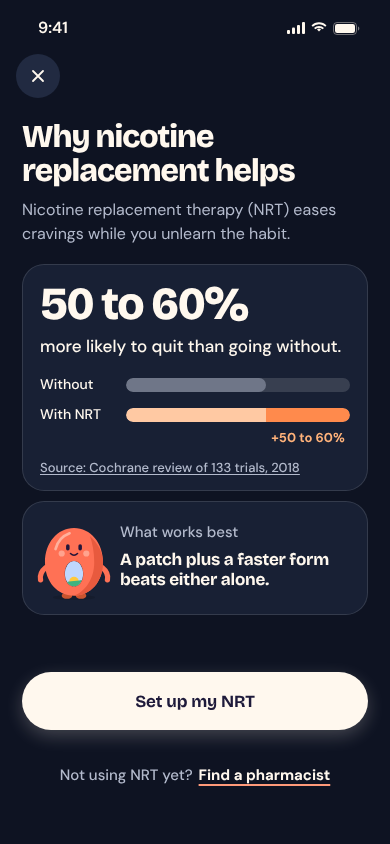
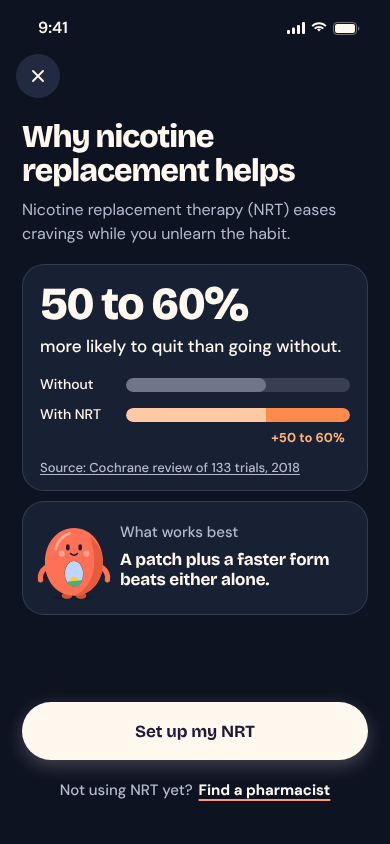
Round 7 work in progress
Claude-Session: https://claude.ai/code/session_01DZ7ApmrncqosUtJWfkxY6v

diff --git a/cook/site/screens/029-session-commit.html b/cook/site/screens/029-session-commit.html
@@ -1,6 +1,6 @@
 <!doctype html><html lang="en"><head><meta charset="utf-8"><meta name="viewport" content="width=390">
 <title>029 Session commit</title>
-<meta name="motion" content="The bar shows card 5 at its last step with Card 5 · Step 3 of 3 beside it; tag, title, your plan chip (When work piles up: two sighs first), helper, the Day Xero medal (the kit medal, resting faded inside its empty hold ring) and the date arrive (600ms, 90ms stagger). Holding the button (3s, auto at 1.2s) fills the button and sweeps the ring around the medal in lockstep (linear, a soft haptic tick every 0.5s); letting go drains both (300ms). On held: the ring turns sun gold, the medal stamps to full colour (620ms spring), its rays start their slow turn (26s loop) and a soft shine crosses it, the date bumps (520ms spring), the title cross-fades to You're committed and the helper to its second line (400ms), card 5's segment fills, and the button shows Committed (success haptic). 1200ms later the done button cross-fades (350ms) into Continue.">
+<meta name="motion" content="The bar shows card 5 at its last step with Card 5 · Step 3 of 3 beside it; tag, title, your plan chip (When work piles up: two sighs first), helper, the Day Xero medal (the kit medal: gold rim, the brand mark, a soft shine; resting faded inside its empty hold ring) and the date arrive (600ms, 90ms stagger). Holding the button (3s, auto at 1.2s) fills the button and sweeps the ring around the medal in lockstep (linear, a soft haptic tick every 0.5s); letting go drains both (300ms). On held: the ring turns sun gold, the medal stamps to full colour (620ms spring), and a soft shine crosses its face, the date bumps (520ms spring), the title cross-fades to You're committed and the helper to its second line (400ms), card 5's segment fills, and the button shows Committed (success haptic). 1200ms later the done button cross-fades (350ms) into Continue.">
 <link rel="stylesheet" href="../kit/kit.css">
 <script src="../kit/chars.js"></script><script src="../kit/kit.js"></script>
 <style>
@@ -21,14 +21,16 @@
 .swap .b{opacity:0;transform:translateY(6px)}
 .done .swap .a{opacity:0;transform:translateY(-6px)}
 .done .swap .b{opacity:1;transform:none}
-/* the hold ring around the kit Day Xero medal (rays, gold rim, the brand mark), with a soft shine on the face */
+/* the hold ring around the kit Day Xero medal (gold rim, the brand mark), with a soft shine on the face */
 .ringbox{position:absolute;top:290px;left:50%;width:256px;height:256px;margin-left:-128px}
 .ringbox svg.r{position:absolute;inset:0;display:block;transform:rotate(-90deg)}
 .arc{transition:stroke .4s var(--ease)}
 .done .arc{stroke:#F5B83D}
 [data-theme="dark"] .done .arc{stroke:#FFD966}
-.coin{position:absolute;left:28px;top:28px;width:200px;height:200px}
-.coin .m{position:relative;width:200px;height:200px;border-radius:50%;opacity:.38;filter:saturate(.25);transition:opacity .4s var(--ease),filter .4s var(--ease)}
+.coin{position:absolute;left:24px;top:24px;width:208px;height:208px}
+/* the hold ring is the medal's glory here, so the kit rays (teeth at this size) stay off */
+.coin .rays{display:none}
+.coin .m{position:relative;width:208px;height:208px;border-radius:50%;opacity:.38;filter:saturate(.25);transition:opacity .4s var(--ease),filter .4s var(--ease)}
 .done .coin .m{opacity:1;filter:none}
 .coin .gloss{position:absolute;inset:0;pointer-events:none}
 .when{position:absolute;top:566px;left:0;right:0;text-align:center;display:grid;gap:6px;justify-items:center}
@@ -77,9 +79,9 @@ document.getElementById('close').innerHTML = DX.icon('close');
 document.querySelectorAll('.sp').forEach(e => e.insertAdjacentHTML('afterbegin', SPARK));
 const $ = id => document.getElementById(id);
 const arc = $('arc'), scr = $('scr'), btn = $('hold'), sw = $('stampwrap'), medal = $('medal'), date = $('date');
-/* the kit medal as it is (rays, gold rim, face, the brand mark), plus a soft top-left shine clipped to the face */
-medal.innerHTML = DX.badge({kind:'xero', size:200, bare:true, label:'Day Xero'}) +
-  `<svg class="gloss" width="200" height="200" viewBox="0 0 100 100" aria-hidden="true"><defs>
+/* the kit medal (gold rim, face, the brand mark), plus a soft top-left shine clipped to the medal */
+medal.innerHTML = DX.badge({kind:'xero', size:208, bare:true, label:'Day Xero'}) +
+  `<svg class="gloss" width="208" height="208" viewBox="0 0 100 100" aria-hidden="true"><defs>
     <radialGradient id="gl" cx="34%" cy="26%" r="62%"><stop offset="0" stop-color="#fff" stop-opacity=".5"/><stop offset=".45" stop-color="#fff" stop-opacity=".12"/><stop offset="1" stop-color="#fff" stop-opacity="0"/></radialGradient>
     <clipPath id="glc"><circle cx="50" cy="50" r="46.5"/></clipPath></defs>
     <circle cx="50" cy="50" r="46.5" fill="url(#gl)" clip-path="url(#glc)"/></svg>`;

diff --git a/cook/site/screens/047-nrt.html b/cook/site/screens/047-nrt.html
@@ -36,7 +36,7 @@
   .cmp .tail { display: grid; grid-template-columns: 76px 1fr; gap: 10px; margin-top: -4px; }
   .cmp .tail span { margin-left: 62.5%; text-align: center; font: 700 13px/1 var(--body); color: #C8561F; }
   [data-theme="dark"] .cmp .tail span { color: #FFB27A; }
-  .pharm { display: flex; align-items: center; justify-content: center; gap: 6px; height: 40px; font: 500 15px/1 var(--body); color: var(--muted); }
+  .pharm { margin: 0; display: flex; align-items: center; justify-content: center; gap: 6px; height: 40px; font: 500 15px/1 var(--body); color: var(--muted); }
   .pharm a { color: var(--fg); font-weight: 700; text-decoration: underline; text-decoration-color: var(--mark); text-decoration-thickness: 2px; text-underline-offset: 4px; cursor: pointer; }
 </style>
 </head><body>
